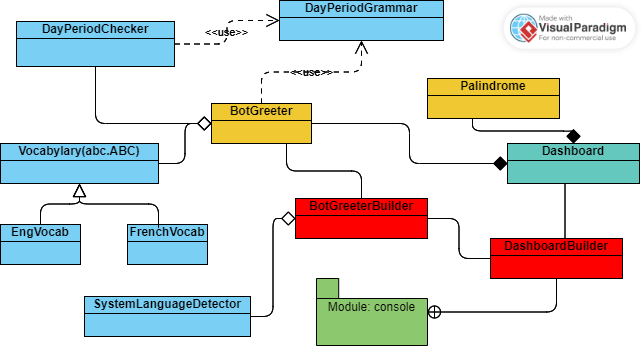
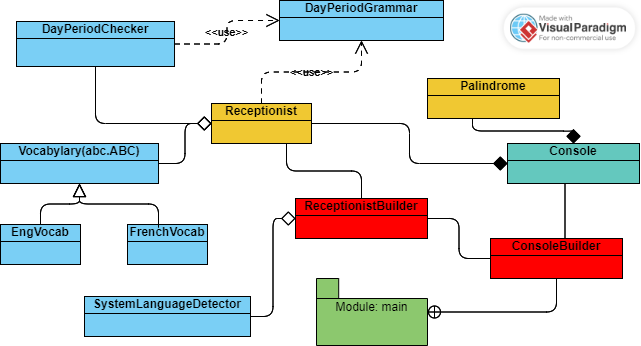
Rennomage des classes

diff --git a/src/console.py b/src/console.py
@@ -1,19 +1,58 @@
-from dashboardBuilder import DashboardBuilder
+from palindrome import Palindrome
+from receptionist import Receptionist
 
+            #Ahmed : Objet valeur
+class Console:
+    """
+    This class represents a console that will be launched on the terminal
+    It represents the interface wich interact with the user
+    @author : ahmed.bouzidia@ecoles-epsi.net
+    @version : 20-03-2024
 
-		#Ahmed  service
-def main():
-	"""
-	This module contain the console of the APP	
-	It implements the Main method
-	@author : ahmed.bouzidia@ecoles-epsi.net
-	@version : 20-03-2024
-	"""
-    dashboard_builder = DashboardBuilder()
+    """
     
-    dashboard = dashboard_builder.build()
-    
-    dashboard.launchDashboard()
+    def __init__(self, palindrome, receptionist):
+        self.palindrome = palindrome
+        self.receptionist = receptionist
 
-if __name__ == "__main__":
-    main()
+    def greet_user(self,):
+        return self.receptionist.greet()
+
+    def set_palindromeText(self, input_text):
+        self.palindrome.setText(input_text)
+        self.palindrome.get_palindrome()
+
+    def get_palindrome_result(self):
+        return self.palindrome.get_result()
+
+    def say_goodbye(self):
+        return self.receptionist.say_goodbye()
+
+    def tell_user_is_palindrome(self):
+        return self.receptionist.feliciter()    
+
+    def tell_user_not_palindrome(self):
+        return self.receptionist.blam()
+
+    def launchConsole(self):
+        # Greet the user
+        greeting = self.greet_user()
+        print(greeting)
+
+        # Ask for input
+        input_text = input("Enter a text: ")
+        
+        # Set palindrome and get result
+        self.palindrome.setText(input_text)
+        
+        if self.palindrome.is_palindrome():
+            print (self.tell_user_is_palindrome())
+        else:
+            print(self.tell_user_not_palindrome())
+            
+        
+        
+        # Say goodbye
+        goodbye_message = self.say_goodbye()
+    
+        print(goodbye_message)

diff --git a/src/consoleBuilder.py b/src/consoleBuilder.py
@@ -1,10 +1,10 @@
 from palindrome import Palindrome
 from botgreeter import BotGreeter
-from  botgreeterbuilder import BotGreeterBuilder
-from dashboard import Dashboard
+from receptionistbuilder import ReceptionistBuilder
+from console import Console
 
 		#Ahmed Service
-class DashboardBuilder:
+class ConsoleBuilder:
 	"""
 	This class is a builder
 	Implement a Bilder Design Patter
@@ -13,8 +13,8 @@ class DashboardBuilder:
     @version : 20-03-2024
 	"""
     def build(self):
-        botBuilder = BotGreeterBuilder()
-        botGreeter = botBuilder.build()
+        receptionistBuilder = ReceptionistBuilder()
+        receptionist = receptionistBuilder.build()
         palindrome = Palindrome(" ")
-        dashboard = Dashboard(palindrome,botGreeter)
-        return dashboard
+        console  = Console(palindrome,receptionist)
+        return console

diff --git a/src/receptionist.py b/src/receptionist.py
@@ -7,8 +7,8 @@ from frenchvocabulary  import FrenchVocab
 from dayperiodegrammar import DayPeriodGrammar
 
 
-               #Ahmed : Entité 
-class BotGreeter:
+                
+class Receptionist:
     """
     This class  represents a greeter  : comme un receptionnniste qui acceuil l'utilisateur 
     It will be used in the Dashboard (console or API) to say hello and goodbye

diff --git a/src/receptionistbuilder.py b/src/receptionistbuilder.py
@@ -7,7 +7,7 @@ from dayperiodchecker import DayPeriodChecker
 
     #Ahmed Service : repository
 
-class BotGreeterBuilder:
+class ReceptionistBuilder:
     """
     A class that implements a Builder Design Pattern
     It's used to creat an instance of the class BotGreeter

diff --git a/src/main.py b/src/main.py
@@ -1,0 +1,13 @@
+from consoleBuilder import ConsoleBuilder
+
+# 
+
+def main():
+    console_builder = ConsoleBuilder()
+    
+    console = console_builder.build()
+    
+    console.launchConsole()
+
+if __name__ == "__main__":
+    main()
